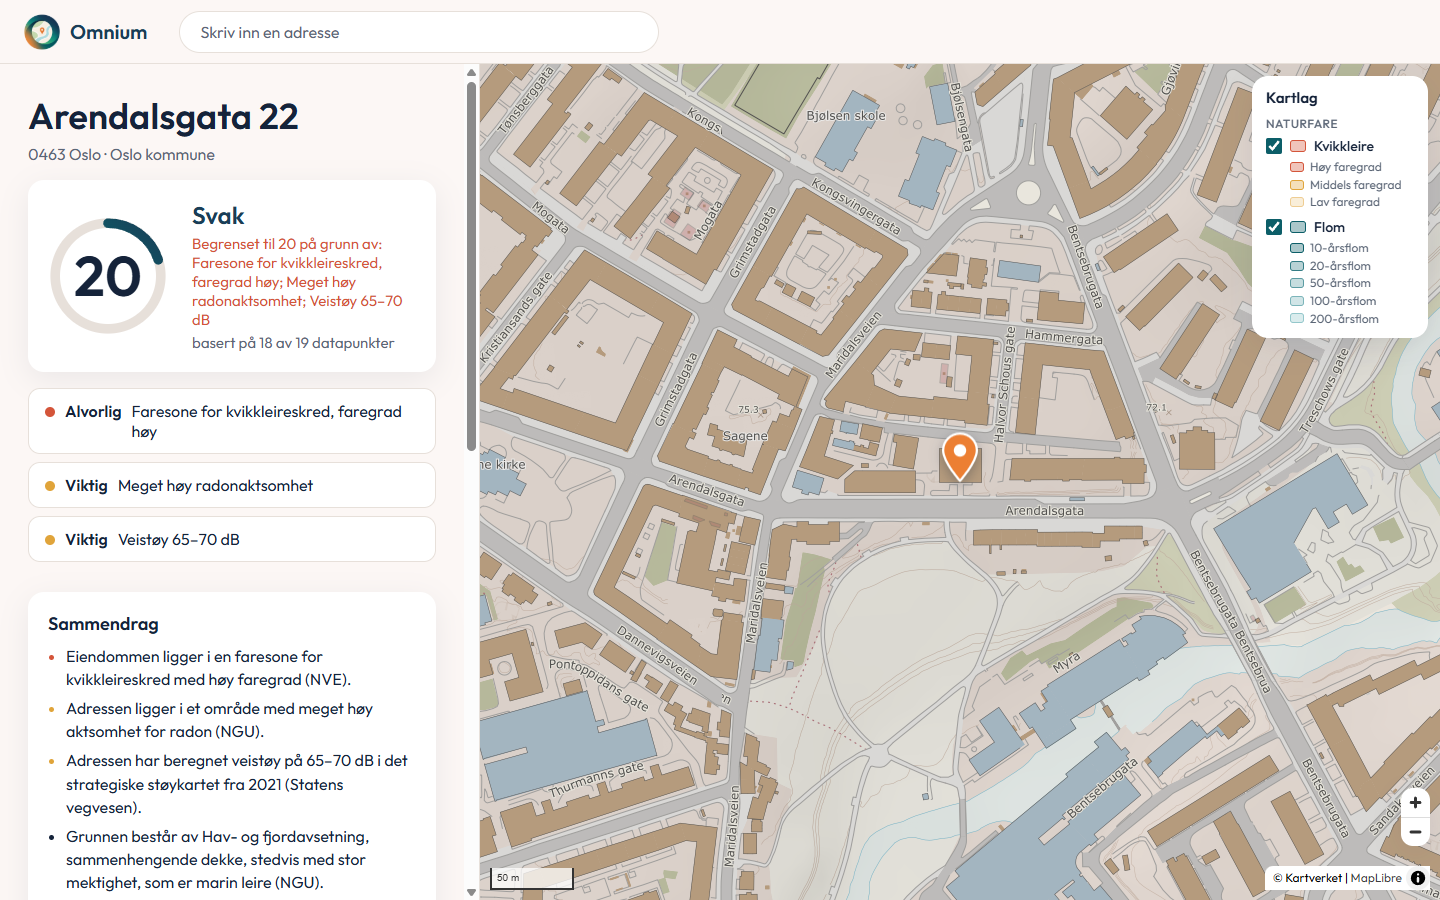
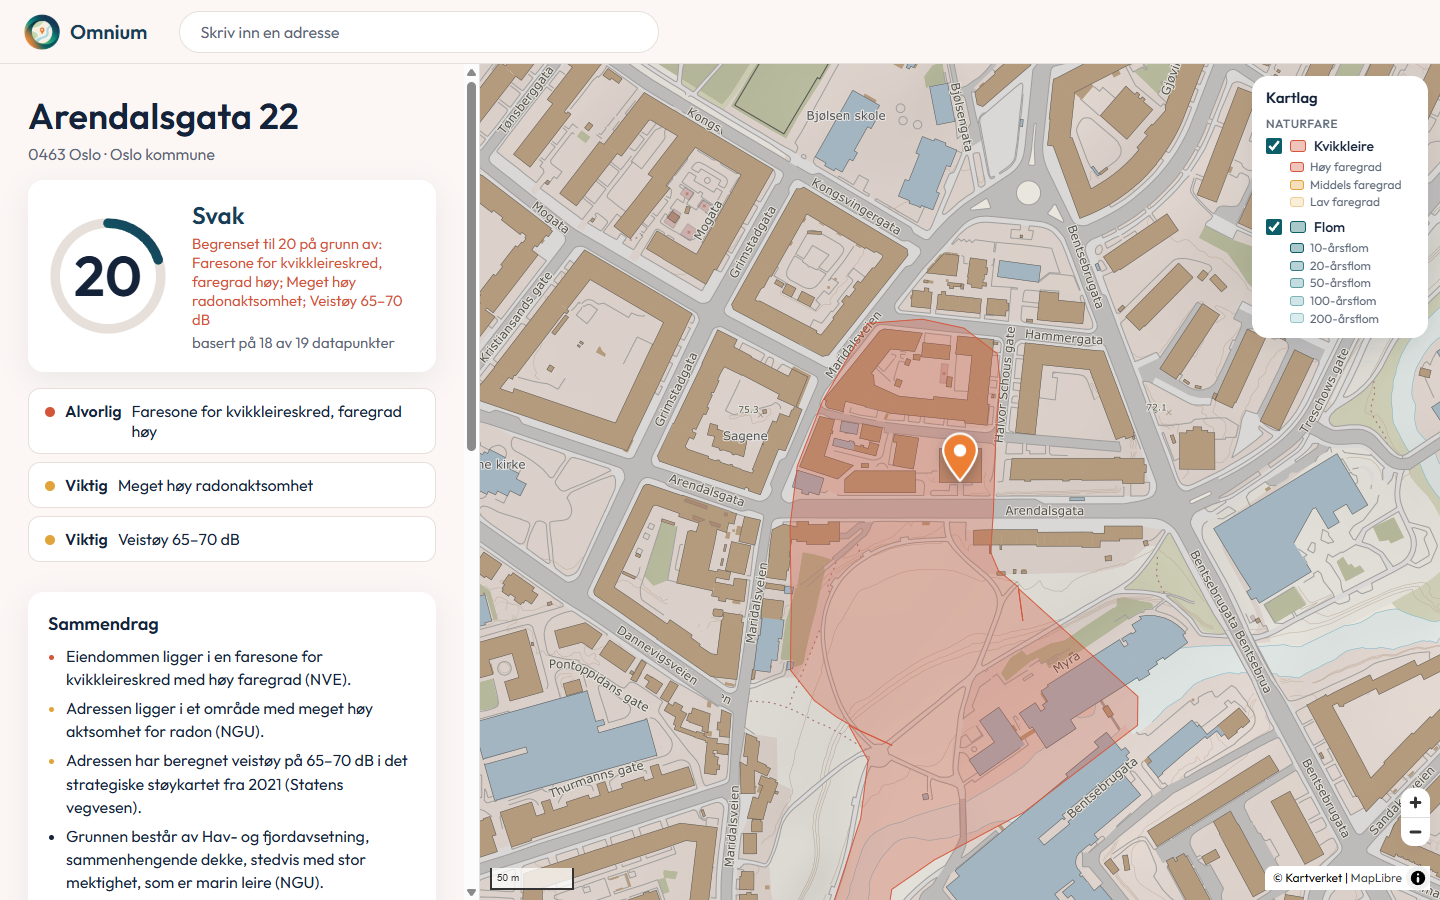
Storm surge and 'not mapped' texts and facts; flood high at 20 years; radon and soil checked against NGU; new scores in DEMO.md and TEST_ADDRESSES.md; screenshots 2, 4, 5

Changed region(s): [[0.5312, 0.3422, 0.8125, 1.0]]

diff --git a/docs/TEST_ADDRESSES.md b/docs/TEST_ADDRESSES.md
@@ -11,16 +11,16 @@ The id is the address id from `docs/PROFILE.md` (`<kommunenummer>-<adressekode>-
 |---|---|---|---|---|---|---|---|---|---|
 | 1 | Quick clay | Arendalsgata 22, 0463 Oslo | `0301-10223-22` | Oslo (0301) | 221/19 | 59.937586 | 10.758173 | Inside quick clay hazard zone "Myraløkka", faregrad **Høy**, risiko 5. Strategic noise map: **65–70 dB** (checked 2026-11-07) | NVE `SkredKvikkleire2` layer 0 (KvikkleireFaregrad) |
 | 2 | Flood zone | Nedre Rælingsveg 148, 2005 Rælingen | `3224-8900-148` | Rælingen (3224) | 104/771 | 59.949070 | 11.045545 | Inside **200-year** flood zone (flomsone `fs002_37`), not inside 10-year zone. Also inside a **red** road noise zone (checked 2026-11-07) | NVE `Flomsoner2` layer 17 (Flomsone_200arsflom) |
-| 3 | Noisy road | Gamle Drammensvei 207, 1337 Sandvika | `3201-1101-207` | Bærum (3201) | 7/61 | 59.892180 | 10.534069 | **Red** road noise zone (Lden > 65 dB), next to E18 | Statens vegvesen WMS `norstoy_1_0`, layer `Stoyvarselkart` |
-| 4 | Quiet suburb | Grevlingåsen 17, 1362 Hosle | `3201-1574-17` | Bærum (3201) | 21/309 | 59.939649 | 10.590461 | **No** quick clay zone, no 200-year flood zone, no road noise zone | All three services above |
-| 5 | Ski area | Holmenkollveien 196, 0791 Oslo | `0301-13070-196` | Oslo (0301) | 34/16 | 59.977219 | 10.676161 | Next to Frognerseteren / Nordmarka ski tracks. **No** quick clay, flood or road noise zone. Strategic noise map: 50–55 dB, below the yellow level (checked 2026-11-07) | All three services above |
+| 3 | Noisy road | Gamle Drammensvei 207, 1337 Sandvika | `3201-1101-207` | Bærum (3201) | 7/61 | 59.892180 | 10.534069 | **Red** road noise zone (Lden > 65 dB), next to E18. Outside NVE's quick-clay and flood mapping: "Ikke kartlagt her" for both | Statens vegvesen WMS `norstoy_1_0`, layer `Stoyvarselkart` |
+| 4 | Quiet suburb | Grevlingåsen 17, 1362 Hosle | `3201-1574-17` | Bærum (3201) | 21/309 | 59.939649 | 10.590461 | **No** quick clay zone, no 200-year flood zone, no road noise zone. Outside NVE's quick-clay and flood mapping, so the app shows "Ikke kartlagt her" for both (since 2026-11-07) | All three services above |
+| 5 | Ski area | Holmenkollveien 196, 0791 Oslo | `0301-13070-196` | Oslo (0301) | 34/16 | 59.977219 | 10.676161 | Next to Frognerseteren / Nordmarka ski tracks. **No** quick clay, flood or road noise zone. Strategic noise map: 50–55 dB, below the yellow level (checked 2026-11-07). Outside NVE's quick-clay and flood mapping: "Ikke kartlagt her" for both | All three services above |
 
 ## Backups
 
 | Case | Address | Id | Kommune (nr) | lat | lng | Expected result |
 |---|---|---|---|---|---|---|
 | Quick clay | Kjelsåsveien 162, 0491 Oslo | `0301-13747-162` | Oslo (0301) | 59.965764 | 10.776008 | Quick clay zone "Kjelsås", faregrad Middels. App on 2026-11-07: overall 64, warnings quick clay (middels), høy radon, strategic noise 55–60 dB |
-| Flood zone | Strandvegen 81, 2005 Rælingen | `3224-11700-81` | Rælingen (3224) | 59.947770 | 11.047739 | Inside 200-year flood zone `fs002_37`, and also inside the **20-year** flood zone (NVE `Flomsoner2` layer 14, checked 2026-11-07). The app shows only "I 20-årsflomsone": the most frequent zone wins. Overall 71. Also inside a yellow road noise zone (checked 2026-11-07) |
+| Flood zone | Strandvegen 81, 2005 Rælingen | `3224-11700-81` | Rælingen (3224) | 59.947770 | 11.047739 | Inside 200-year flood zone `fs002_37`, and also inside the **20-year** flood zone (NVE `Flomsoner2` layer 14, checked 2026-11-07). The app shows only "I 20-årsflomsone": the most frequent zone wins. Overall 40 (a 20-year flood zone is a high warning since 2026-11-07, TEK17 §7-2). Also inside a yellow road noise zone (checked 2026-11-07) |
 
 ## Source endpoints used
 
@@ -29,12 +29,30 @@ The id is the address id from `docs/PROFILE.md` (`<kommunenummer>-<adressekode>-
 - Road noise: `https://www.vegvesen.no/kart/ogc/norstoy_1_0/ows` (WMS GetFeatureInfo)
 - Address lookup: `https://ws.geonorge.no/adresser/v1/sok`
 
+## Radon and soil checked against NGU
+
+Checked 2026-11-07 at each address point, compared with what the app shows.
+
+| # | Address | NGU radon | NGU soil type | Matches the app |
+|---|---|---|---|---|
+| 1 | Arendalsgata 22 | Meget høy | Hav- og fjordavsetning, sammenhengende dekke, stedvis med stor mektighet | Yes, both |
+| 2 | Nedre Rælingsveg 148 | Middels | Elve- og bekkeavsetning (fluvial avsetning) | Yes, both |
+| 3 | Gamle Drammensvei 207 | Meget høy | Forvitringsmateriale, ikke inndelt etter mektighet | Yes, both |
+| 4 | Grevlingåsen 17 | Høy | Fyllmasse (antropogent materiale) | Yes, both |
+| 5 | Holmenkollveien 196 | Høy | Bart fjell | Yes, both |
+
+- Soil: NGU WMS `https://geo.ngu.no/mapserver/LosmasserWMS2`, layer `Losmasse_flate` (GetFeatureInfo, scale 1:50 000). Independent of the file we ingest (`LosmasseLokalt.gpkg`).
+- Radon: NGU API `https://geo.ngu.no/api/features/radonaktsomhet/collections/radonaktsomhet/items` ("Radon aktsomhet versjon 2", September 2026). This is the same service `radon.ts` ingests, so it confirms the ingest, not the data. NGU's older radon WMS (`RadonWMS2`, layer `Radon_aktsomhet`) still shows the old classes ("Moderat til lav", "Usikker") and does not match version 2: don't use it to check.
+- Not checked: whether any point lies close to a polygon boundary.
+
 ## Not checked yet
 
 - Ski tracks at #5: Turrutebasen (`turruter`) has a trail 45 m away but the nearest ski track 1.2 km away (TRY-løypa). Turrutebasen lacks most Nordmarka ski tracks, so this does not show the ski area well.
 - Polluted ground (`grunnforurensning`) on 2026-11-07: #1 has a registered site 17 m away ("Arendalsgata 3-22", påvirkningsgrad 2: acceptable with today's use). The others have none within 100 m.
-- Radon and soil type (from Sverre's `radon` and `losmasser`) on 2026-11-07: #1 meget høy radon, marine clay (hav- og fjordavsetning). #2 middels radon, fluvial deposit. #3 meget høy radon. #4 høy radon, fill (fyllmasse). #5 høy radon, bare rock. Not checked against NGU's own map.
-- Overall rating on 2026-11-07 (after Lukas's stacked caps): #1 20, #2 65, #3 65, #4 75, #5 75.
+- Radon and soil type (from Sverre's `radon` and `losmasser`) on 2026-11-07: #1 meget høy radon, marine clay (hav- og fjordavsetning). #2 middels radon, fluvial deposit. #3 meget høy radon. #4 høy radon, fill (fyllmasse). #5 høy radon, bare rock. **Checked against NGU on 2026-11-07: all 5 match** for both radon and soil type (see "Radon and soil checked against NGU" below).
+- Overall rating on 2026-11-07 (after Lukas's stacked caps and NVE mapping coverage): #1 20, #2 65, #3 65, #4 75, #5 75. Backups: Kjelsåsveien 162 64, Strandvegen 81 40.
+- NVE mapping coverage (`nve_kartlagt`) on 2026-11-07: #3, #4 and #5 are outside both NVE's quick-clay and flood mapping ("Ikke kartlagt her"). #1 is inside the quick-clay mapping but outside the flood mapping. #2 and Strandvegen 81 are inside both.
+- Storm surge (Sverre's `stormflo`) on 2026-11-07: none of the 5 addresses or the backups is in a storm-surge zone.
 - Busiest stop within 500 m (`transitDepartures`): #1 Sagene 1154, #2 Lillestrøm stasjon 363, #3 Sandvika stasjon 444, #4 Jegeråsen 161 (212 m), #5 Frognerseteren 76.
 - Rockfall, debris slide and avalanche (Sverre's `steinsprang`, `jordflomskred`, `snoskred`): none of the 5 addresses is in an area.
 - Departures at the nearest stop (Tue 2026-11-10, `stops.departures`): #1 Arendalsgata 929 (3 lines), #2 Dammensvika 152, #3 Lakseberget 230, #4 Grevlingbakken **5** (1 line), #5 Frognerseteren 76 (metro + bus).

diff --git a/docs/FACTS.md b/docs/FACTS.md
@@ -83,7 +83,7 @@ Write `{display}` with a lower-case first letter inside the sentence: "Grunnen b
 | warning, value "lav" | Eiendommen ligger i en faresone for kvikkleireskred med lav faregrad ({src}). | 3 |
 | value "ingen" (zone without faregrad) | Eiendommen ligger i en kartlagt kvikkleiresone der NVE ikke har satt noen faregrad ({src}). | 6 |
 | no zone | Eiendommen ligger ikke i en kartlagt faresone for kvikkleireskred ({src}). | 5 |
-| not mapped (NVE has not mapped quick clay here) | NVE har ikke kartlagt faresoner for kvikkleireskred i området der eiendommen ligger, så kartet sier ingenting om kvikkleire her ({src}). | 7 |
+| value "ikkeKartlagt" (NVE has not mapped quick clay here) | NVE har ikke kartlagt faresoner for kvikkleireskred i området der eiendommen ligger, så kartet sier ingenting om kvikkleire her ({src}). | 7 |
 
 "ingen" is neither a risk nor an all-clear: never write "faresone" or "trygt" for it, and don't add a faregrad.
 
@@ -93,10 +93,10 @@ Write `{display}` with a lower-case first letter inside the sentence: "Grunnen b
 
 | When | Sentence | Rank |
 |---|---|---|
-| warning, value ≤ 10 | Eiendommen ligger i en flomsone som kan bli oversvømt ved en {value}-årsflom ({src}). | 1 |
+| warning, value ≤ 20 | Eiendommen ligger i en flomsone som kan bli oversvømt ved en {value}-årsflom ({src}). | 1 |
 | warning, other value | Eiendommen ligger i en flomsone som kan bli oversvømt ved en {value}-årsflom ({src}). | 2 |
 | no warning | Eiendommen ligger ikke i en kartlagt flomsone ({src}). | 5 |
-| not mapped (NVE has no flood zone map here) | NVE har ikke laget flomsonekart for området der eiendommen ligger, så kartet sier ingenting om flomfare her ({src}). | 7 |
+| value "ikkeKartlagt" (NVE has no flood zone map here) | NVE har ikke laget flomsonekart for området der eiendommen ligger, så kartet sier ingenting om flomfare her ({src}). | 7 |
 
 NVE flood zone maps cover only selected rivers and towns. Like quick clay, "not mapped" gets its own sentence and never merges with the rank 5 sentences.
 
@@ -121,6 +121,17 @@ NVE flood zone maps cover only selected rivers and towns. Like quick clay, "not 
 | value "medSkog" (warning medium) | Eiendommen ligger i et aktsomhetsområde for snøskred ({src}). | 2 |
 | value "utenSkog" (warning low) | Eiendommen ligger i et område der snøskred bare kan nå fram hvis skogen over blir borte ({src}). | 3 |
 | no warning | Eiendommen ligger ikke i et aktsomhetsområde for snøskred ({src}). | 5 |
+
+**`stormSurge` (Stormflo)**
+
+| When | Sentence | Rank |
+|---|---|---|
+| warning high (value ≤ 20) | Eiendommen ligger i et område som kan bli oversvømt fra sjøen ved en {value}-årsstormflo i dag ({src}). | 1 |
+| warning medium (value 200) | Eiendommen ligger i et område som kan bli oversvømt fra sjøen ved en {value}-årsstormflo i dag ({src}). | 2 |
+| value 2100 (warning low) | Eiendommen kan bli oversvømt fra sjøen ved en 200-årsstormflo med havnivået som er ventet i år 2100 ({src}). | 3 |
+| no warning | Eiendommen ligger ikke i et område som kan bli oversvømt ved stormflo ifølge Kartverkets beregninger ({src}). | 5 |
+
+Value 2100 is a year, not a return period: never write "2100-årsstormflo".
 
 Rockfall, debris-slide and avalanche maps are *aktsomhetsområder*: coarse maps of where a slide is possible, made from a terrain model. Always write "aktsomhetsområde", never "faresone", so the summary doesn't make them sound like the mapped quick-clay or flood zones.
 

diff --git a/docs/DEMO.md b/docs/DEMO.md
@@ -6,15 +6,15 @@ Addresses and ids come from `docs/TEST_ADDRESSES.md`. The pitch is in Norwegian 
 
 ## The story in one line
 
-Two homes, both in Bærum/Oslo, both near a bus and a school. On paper they look alike. Omnium shows in seconds that one sits in a quick-clay hazard zone and the other doesn't, and it says where every fact comes from.
+Two homes, both in Bærum/Oslo, both near a bus and a school. On paper they look alike. Omnium shows in seconds that one sits in a quick-clay hazard zone, says plainly where the public maps have gaps, and says where every fact comes from.
 
 ## The two addresses
 
 | Role | Address | Id | What it shows |
 |---|---|---|---|
-| Start: the calm case | Grevlingåsen 17, 1362 Hosle | `3201-1574-17` | Overall **75**. Naturfare 100: no quick clay, flood, rockfall, debris-slide or avalanche zone, no noise zone. One warning: høy radonaktsomhet (common around Oslo). Busiest stop within 500 m: Jegeråsen, 212 m, 161 departures a weekday. School 256 m, kindergarten 226 m. |
+| Start: the calm case | Grevlingåsen 17, 1362 Hosle | `3201-1574-17` | Overall **75**. Naturfare 100: no rockfall, debris-slide, avalanche or storm-surge area, no noise zone. NVE has not mapped quick clay or flood here, so both show "Ikke kartlagt her" (neutral, not scored). One warning: høy radonaktsomhet (common around Oslo). Busiest stop within 500 m: Jegeråsen, 212 m, 161 departures a weekday. School 256 m, kindergarten 226 m. |
 | Contrast: the hidden risk | Arendalsgata 22, 0463 Oslo | `0301-10223-22` | Overall **20**, held down by three serious warnings: quick-clay zone with faregrad **høy** (NVE), meget høy radonaktsomhet and road noise 65–70 dB. Also marine clay and a polluted-ground site 17 m away. Naturfare 30. Busiest stop within 500 m: Sagene, 1154 departures. |
-| Backup / extra | Nedre Rælingsveg 148, 2005 Rælingen | `3224-8900-148` | Two warnings: 200-year flood zone and red road noise zone. |
+| Backup / extra | Nedre Rælingsveg 148, 2005 Rælingen | `3224-8900-148` | Overall 65. Two warnings: 200-year flood zone and red road noise zone. |
 
 Numbers above are from the profile on 2026-11-07. Check them again before the demo (see checklist): they change when data or the rating changes.
 
@@ -32,7 +32,7 @@ Times are a guide. Bold = what you click or show.
 
 **0:45–1:30 — Det rolige eksempelet: Grevlingåsen 17**
 **Type "Grevlingåsen 17", pick the one in 1362 Hosle.** There is also a Grevlingåsen 17 in 1386 Asker: don't pick that one.
-> Her er et vanlig hus på Hosle i Bærum. Samlet karakter 75. Det ligger ikke i noen kartlagt faresone for kvikkleire eller flom, ikke i aktsomhetsområder for skred, og ikke i støysone. Den eneste advarselen er høy aktsomhet for radon, som er vanlig rundt Oslo. Nærmeste skole er 256 meter unna i luftlinje, og fra Jegeråsen, 212 meter unna, går det 161 avganger på en vanlig hverdag.
+> Her er et vanlig hus på Hosle i Bærum. Samlet karakter 75. Det ligger ikke i aktsomhetsområder for skred og ikke i støysone. Kvikkleire og flom har NVE ikke kartlagt her, og det står rett ut på siden. Den eneste advarselen er høy aktsomhet for radon, som er vanlig rundt Oslo. Nærmeste skole er 256 meter unna i luftlinje, og fra Jegeråsen, 212 meter unna, går det 161 avganger på en vanlig hverdag.
 **Point at the category cards, then open one data point to show its source and explanation.**
 > Alt vi viser har en kilde. Og vi forklarer hva det betyr for den som bor der.
 

diff --git a/docs/TEXTS.md b/docs/TEXTS.md
@@ -36,12 +36,14 @@ How to use this file:
 **Forklaring:** Kvikkleire er leire som kan bli flytende når den blir forstyrret, og da kan store områder gli ut. NVE har kartlagt soner der et slikt skred kan skje.
 - **Når i faresone:** Faregraden (lav, middels eller høy) sier hvor sannsynlig et skred er, ikke hvor stor skaden blir. Kommunen kan stille krav til grunnundersøkelser før det bygges eller graves.
 - **Når i kartlagt sone uten faregrad:** NVE har kartlagt kvikkleire her, men ikke vurdert hvor sannsynlig et skred er. Kommunen kan likevel kreve grunnundersøkelser før det bygges eller graves.
-- **Når ikke i kartlagt faresone:** NVE har ikke registrert noen faresone her. Det kan likevel finnes kvikkleire i områder som ikke er kartlagt.
+- **Når ikke i faresone (kartlagt område):** NVE har kartlagt området og ikke registrert noen faresone der adressen ligger.
+- **Når ikke kartlagt:** NVE har ikke kartlagt kvikkleire i dette området, så kartet sier ingenting om grunnen her. Der det er marin leire i grunnen, kan det likevel finnes kvikkleire.
 
 ### `flood200` — Flomsone (200-årsflom)
 **Forklaring:** En 200-årsflom er en flom som i snitt kommer én gang i løpet av 200 år. Det betyr omtrent 0,5 % sjanse hvert år, eller rundt 1 av 5 i løpet av 50 år.
 - **Når i flomsone:** Området kan bli oversvømt ved en slik flom. Nye boliger skal som hovedregel være sikret mot 200-årsflom.
-- **Når ikke i kartlagt flomsone:** NVE har bare laget flomsonekart langs noen elver og vassdrag. At adressen ikke er i en sone, betyr ikke at den aldri kan få vann fra elv, bekk eller kraftig regn.
+- **Når ikke i flomsone (kartlagt område):** NVE har laget flomsonekart her, og adressen ligger utenfor sonene. Adressen kan likevel få vann fra bekker, overvann eller kraftig regn.
+- **Når ikke kartlagt:** NVE har bare laget flomsonekart langs noen elver og vassdrag, og ikke her. Kartet sier derfor ingenting om flomfare på denne adressen.
 
 ### `rockfall` — Steinsprang
 **Forklaring:** Steinsprang er når stein løsner fra bratte fjellsider og faller eller ruller ned. Aktsomhetsområder viser hvor stein i verste fall kan nå, beregnet ut fra terrenget.
@@ -55,6 +57,12 @@ How to use this file:
 **Forklaring:** Aktsomhetsområder for snøskred viser hvor snøskred kan løsne og hvor langt de kan nå, beregnet ut fra terrenget. Kartet er grovt og ikke sjekket på stedet.
 - **Når i aktsomhetsområde:** Snøskred kan i verste fall nå hit, også med skogen som står i dag.
 - **Når bare uten skog:** Skogen over beskytter i dag. Hvis skogen hogges eller dør, kan snøskred nå hit.
+
+### `stormSurge` — Stormflo
+**Forklaring:** Stormflo er når havet stiger over vanlig høyvann, ofte på grunn av sterk vind og lavt lufttrykk. Kartverket har beregnet hvilke områder langs kysten som kan bli oversvømt ved 20-års- og 200-årsstormflo, i dag og med havnivået som er ventet i år 2100.
+- **Når i stormflosone i dag:** Området kan bli oversvømt fra sjøen ved en slik stormflo. Nye boliger skal som hovedregel være sikret mot 200-årsstormflo.
+- **Når bare i år 2100:** Området er ikke utsatt i dag, men kan bli det når havet stiger.
+- **Når ikke i stormflosone:** Adressen ligger utenfor sonene Kartverket har beregnet. Kartet gjelder bare vann fra sjøen, ikke fra elver eller regn.
 
 ## Miljø
 

diff --git a/PLAN.md b/PLAN.md
@@ -72,8 +72,8 @@ What the demo still needs, most important first:
 3. **Erik:** ~~quick clay and flood on the map~~ done (`web/src/features/hazards.ts`), plus flood low points, rockfall, debris slides, avalanches, radon, soil and bedrock in the "Kartlag" panel. Still open: road noise `/api/veistoy` and `/api/stoy_strategisk`.
 4. **Erik:** search misses addresses. It asks Geonorge for 50 hits nationwide, then keeps Oslo/Akershus, so common street names give "no results". Geonorge filters on only one `kommunenummer` per request. Fix that works today: `treffPerSide=1000` plus `filtrer=adresser.adressetekst,adresser.kommunenummer,adresser.adressekode,adresser.nummer,adresser.bokstav,adresser.postnummer,adresser.poststed,adresser.kommunenavn,adresser.objtype` (about 0.5 s), then filter as now.
 5. **Erik:** show "Ikke kartlagt her" (value `ikkeKartlagt`, effect neutral) as neutral grey, never green.
-6. **Sverre + Even:** check radon and soil type for the 5 test addresses against NGU's own map (radon: geo.ngu.no aktsomhetskart, soil: løsmassekart) and write the result in `docs/TEST_ADDRESSES.md`. The test notes say this is not checked yet.
-7. **Even:** update `docs/DEMO.md` and `docs/TEST_ADDRESSES.md`: scores above, Strandvegen 81 now 40, the bus caveat can go (Jegeråsen, 212 m, 161 weekday departures), and #3–#5 show "Ikke kartlagt her" for quick clay and flood. (FACTS.md rules for `ikkeKartlagt` are done, and the code matches them.)
+6. ~~**Sverre + Even:** check radon and soil type for the 5 test addresses against NGU's own map (radon: geo.ngu.no aktsomhetskart, soil: løsmassekart) and write the result in `docs/TEST_ADDRESSES.md`. The test notes say this is not checked yet.~~ Done 2026-11-07: all 5 match NGU (`docs/TEST_ADDRESSES.md`).
+7. ~~**Even:** update `docs/DEMO.md` and `docs/TEST_ADDRESSES.md`: scores above, Strandvegen 81 now 40, the bus caveat can go (Jegeråsen, 212 m, 161 weekday departures), and #3–#5 show "Ikke kartlagt her" for quick clay and flood. (FACTS.md rules for `ikkeKartlagt` are done, and the code matches them.)~~ Done 2026-11-07.
 
 After these, stop adding data and move to phase 3 (demo).
 
